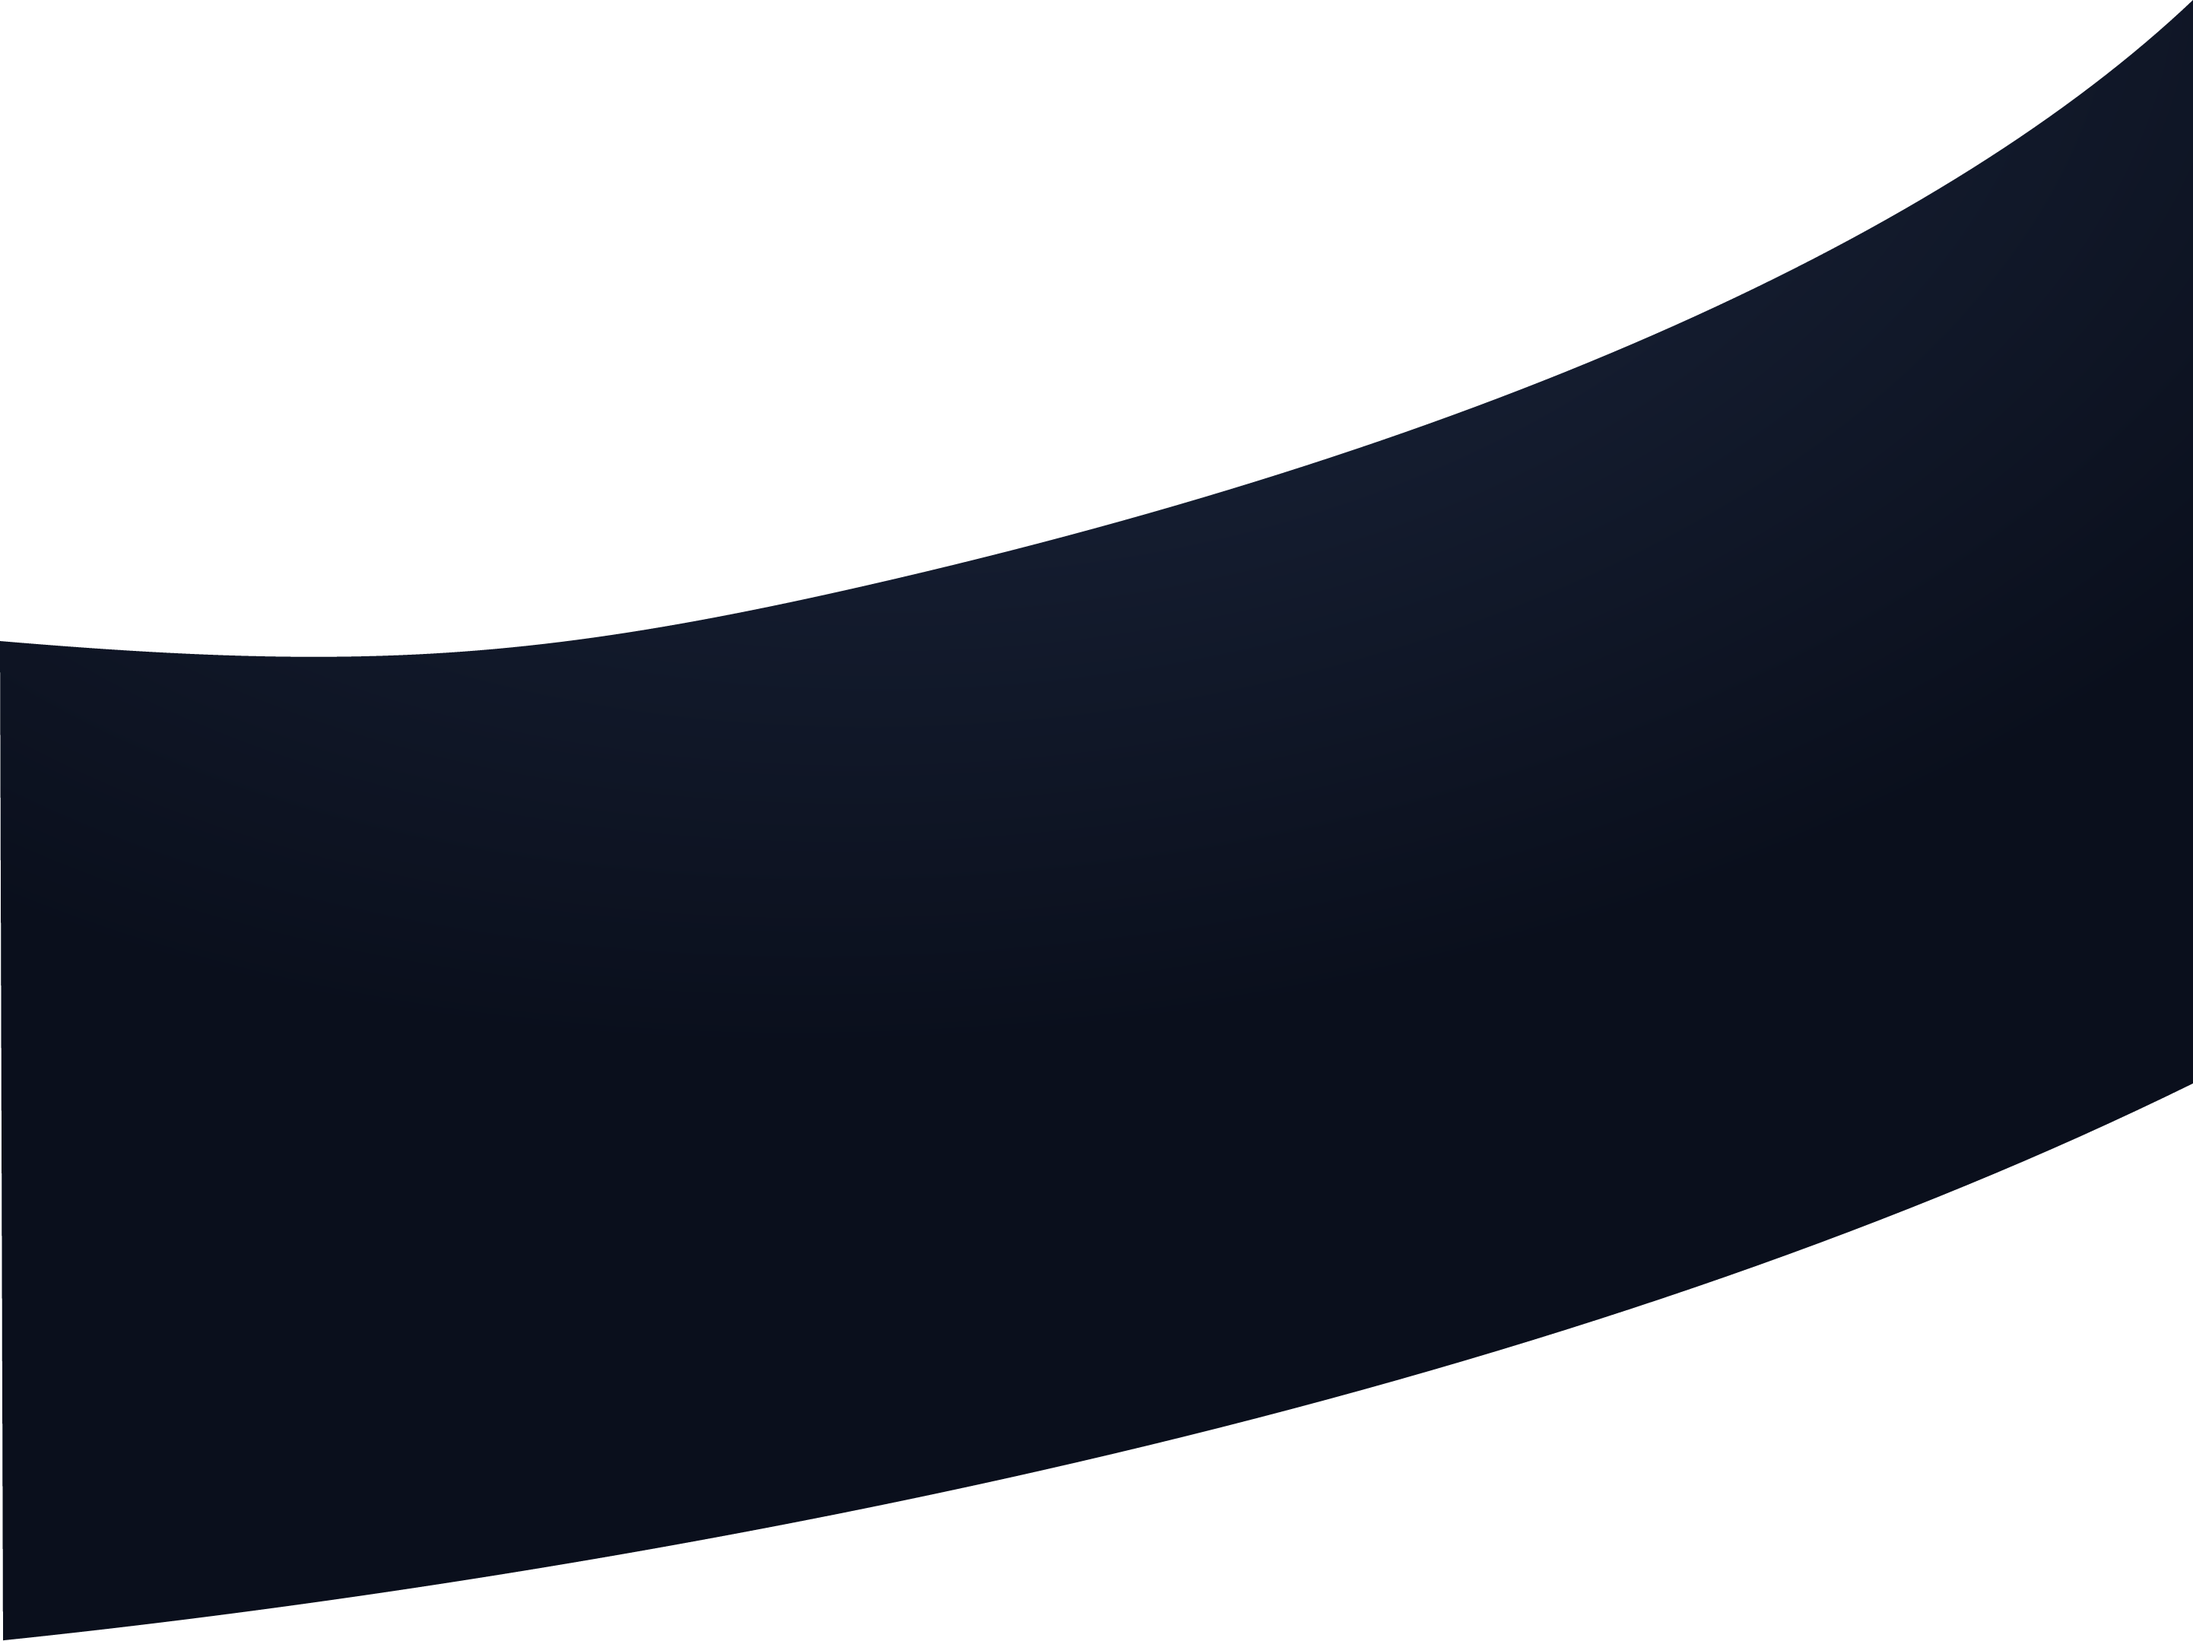
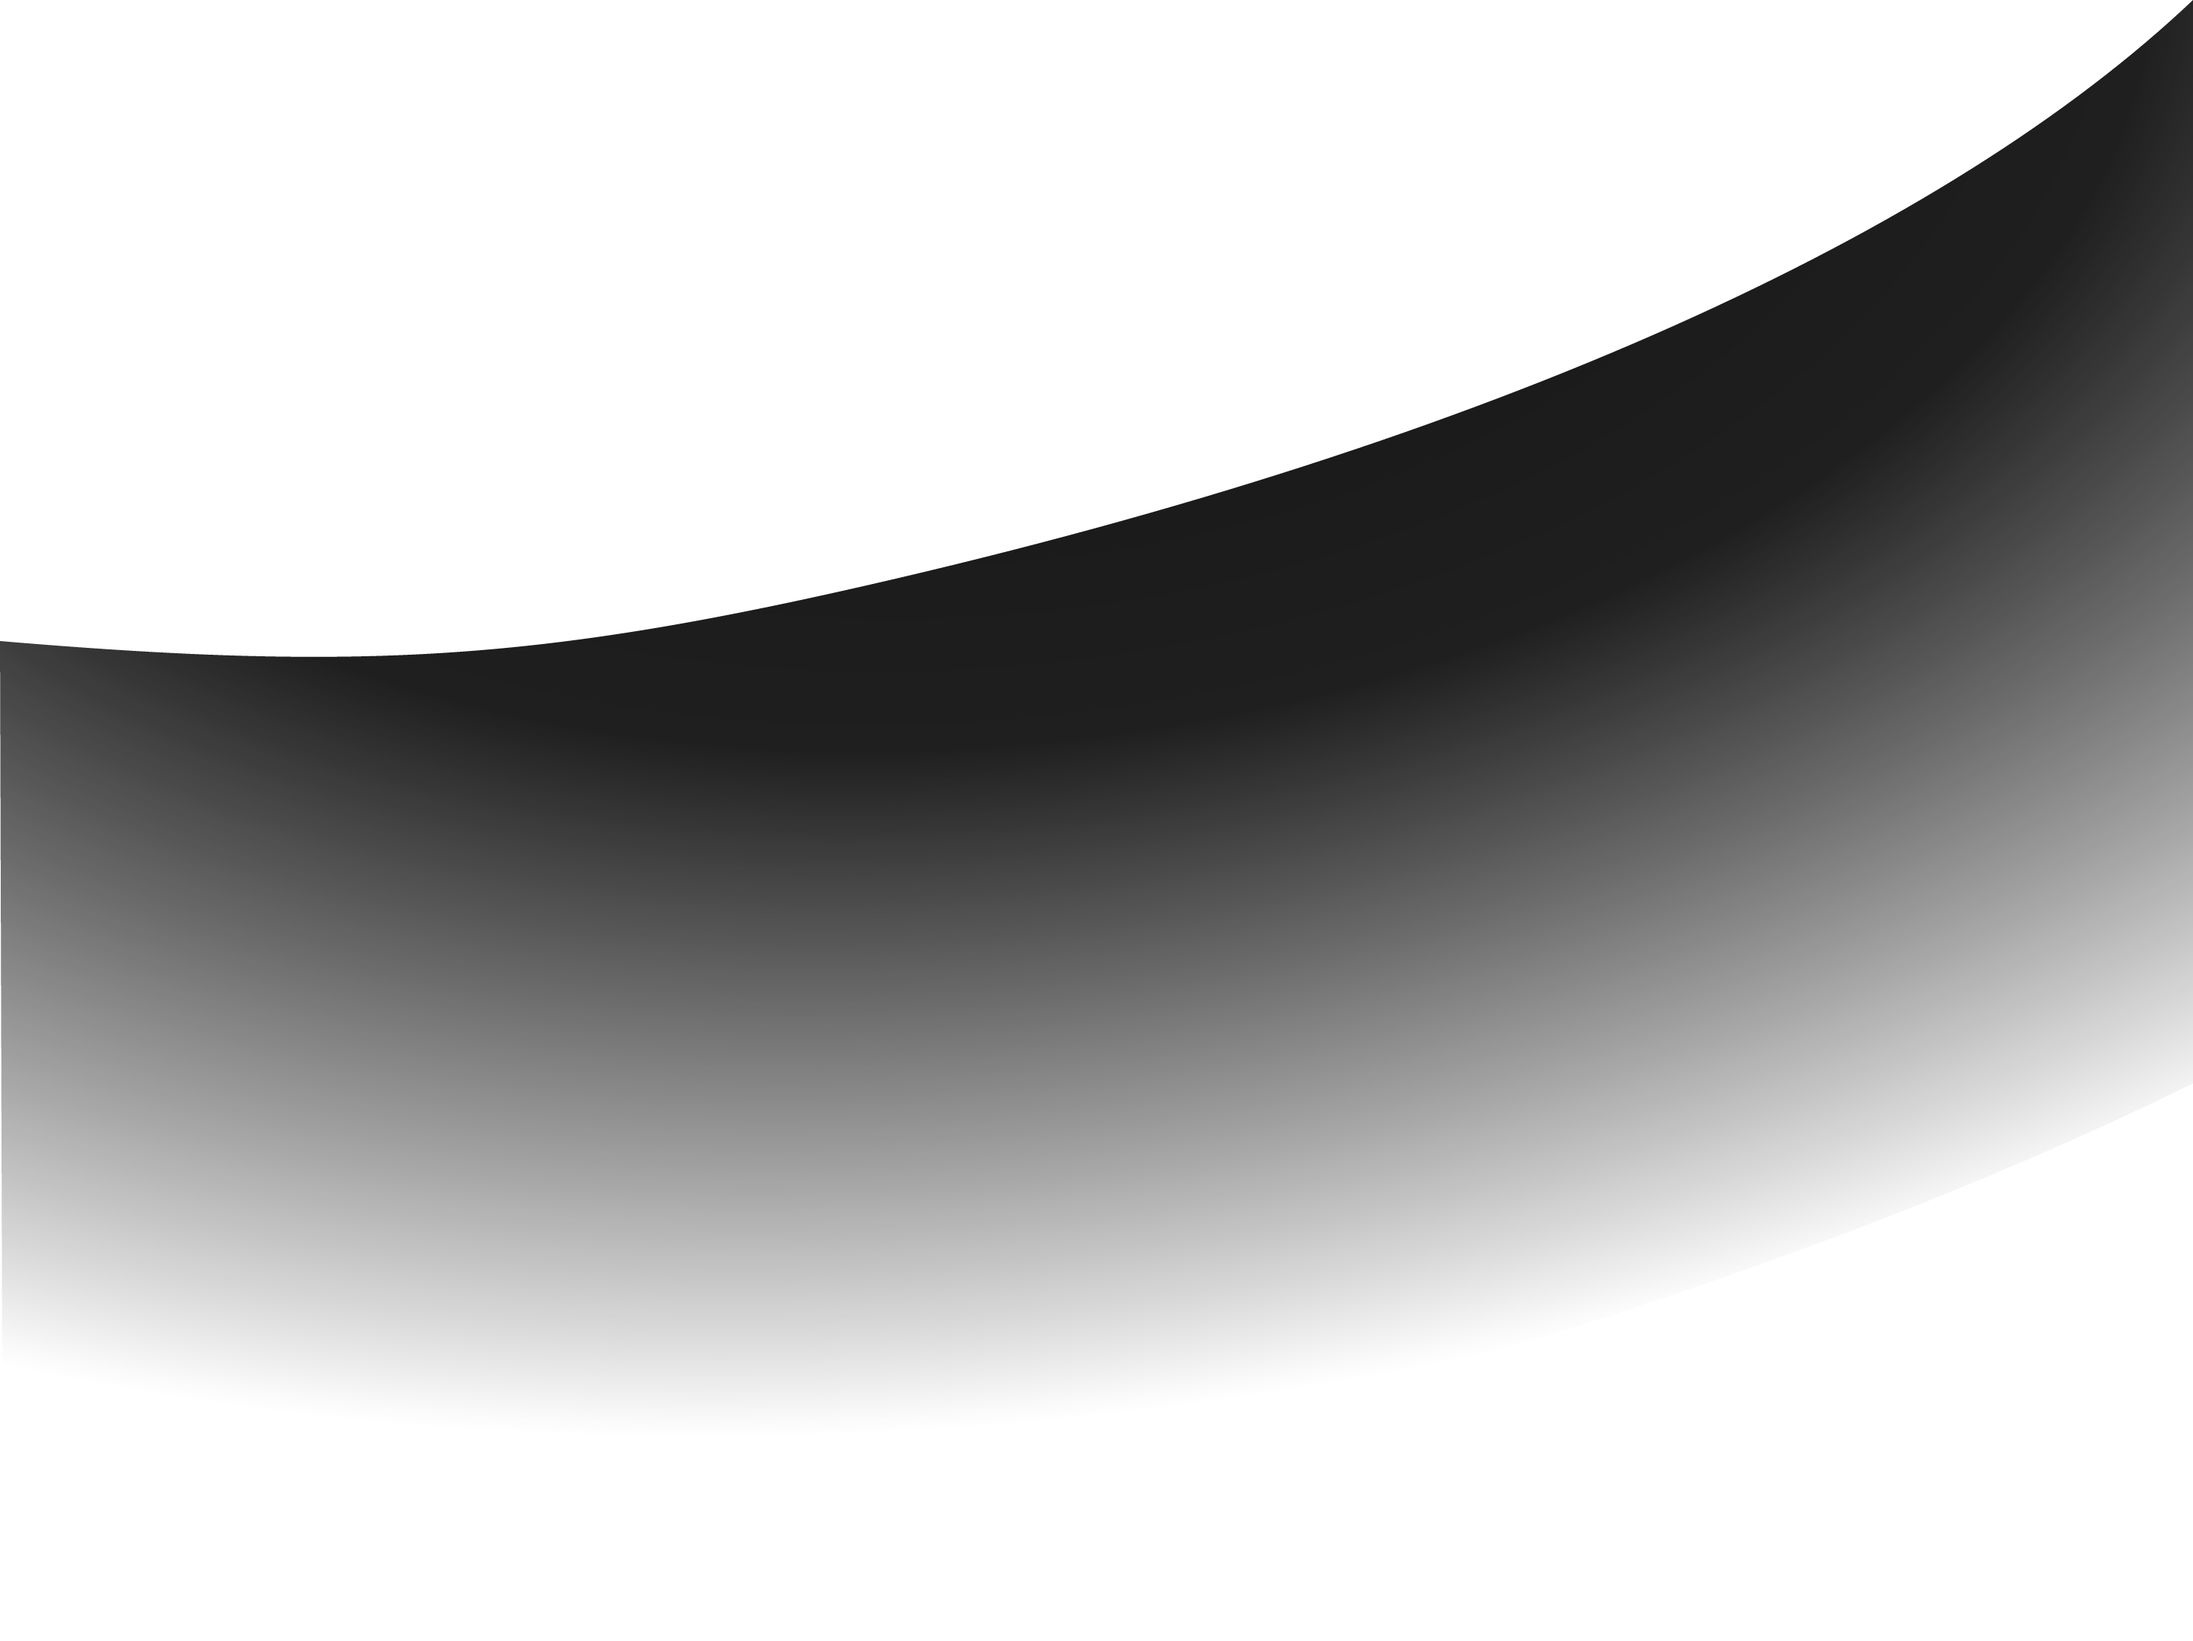
style: changing the background color, adjusting background objects color

diff --git a/style.css b/style.css
@@ -6,34 +6,14 @@ body {
 }
 
 body {
-  background-color: #000000;
+  background-color: rgb(10, 10, 10);
   background-image:
-    radial-gradient(
-      circle at 20% 10%,
-      rgba(255, 255, 255, 0.07) 0%,
-      rgba(0, 0, 0, 0.4) 40%,
-      transparent 80%
-    ),
-    radial-gradient(
-      circle at 80% 40%,
-      rgba(255, 255, 255, 0.05) 0%,
-      rgba(0, 0, 0, 0.4) 40%,
-      transparent 80%
-    ),
-    radial-gradient(
-      circle at 20% 70%,
-      rgba(255, 255, 255, 0.06) 0%,
-      rgba(0, 0, 0, 0.4) 40%,
-      transparent 80%
-    ),
-    radial-gradient(
-      circle at 80% 95%,
-      rgba(255, 255, 255, 0.04) 0%,
-      rgba(0, 0, 0, 0.4) 40%,
-      transparent 80%
-    );
-  background-attachment: scroll;
-  background-repeat: no-repeat;
+    linear-gradient(to right, rgba(255, 255, 255, 0.07), rgba(0, 0, 0, 0.4)),
+    linear-gradient(to top, rgba(255, 255, 255, 0.07), rgba(0, 0, 0, 0.4));
+  background-attachment: fixed;
+
+  background-size: cover;
+
   min-height: 100vh;
   background-size: 100% 100%;
 }
@@ -253,7 +233,8 @@ input[type="checkbox"] {
   width: 100%;
 
   height: var(--header-height);
-  background-color: var(--color-bg-dark);
+  /* background-color: var(--color-bg-dark); */
+  background-color: rgb(10, 10, 10);
 }
 
 .header-content {
